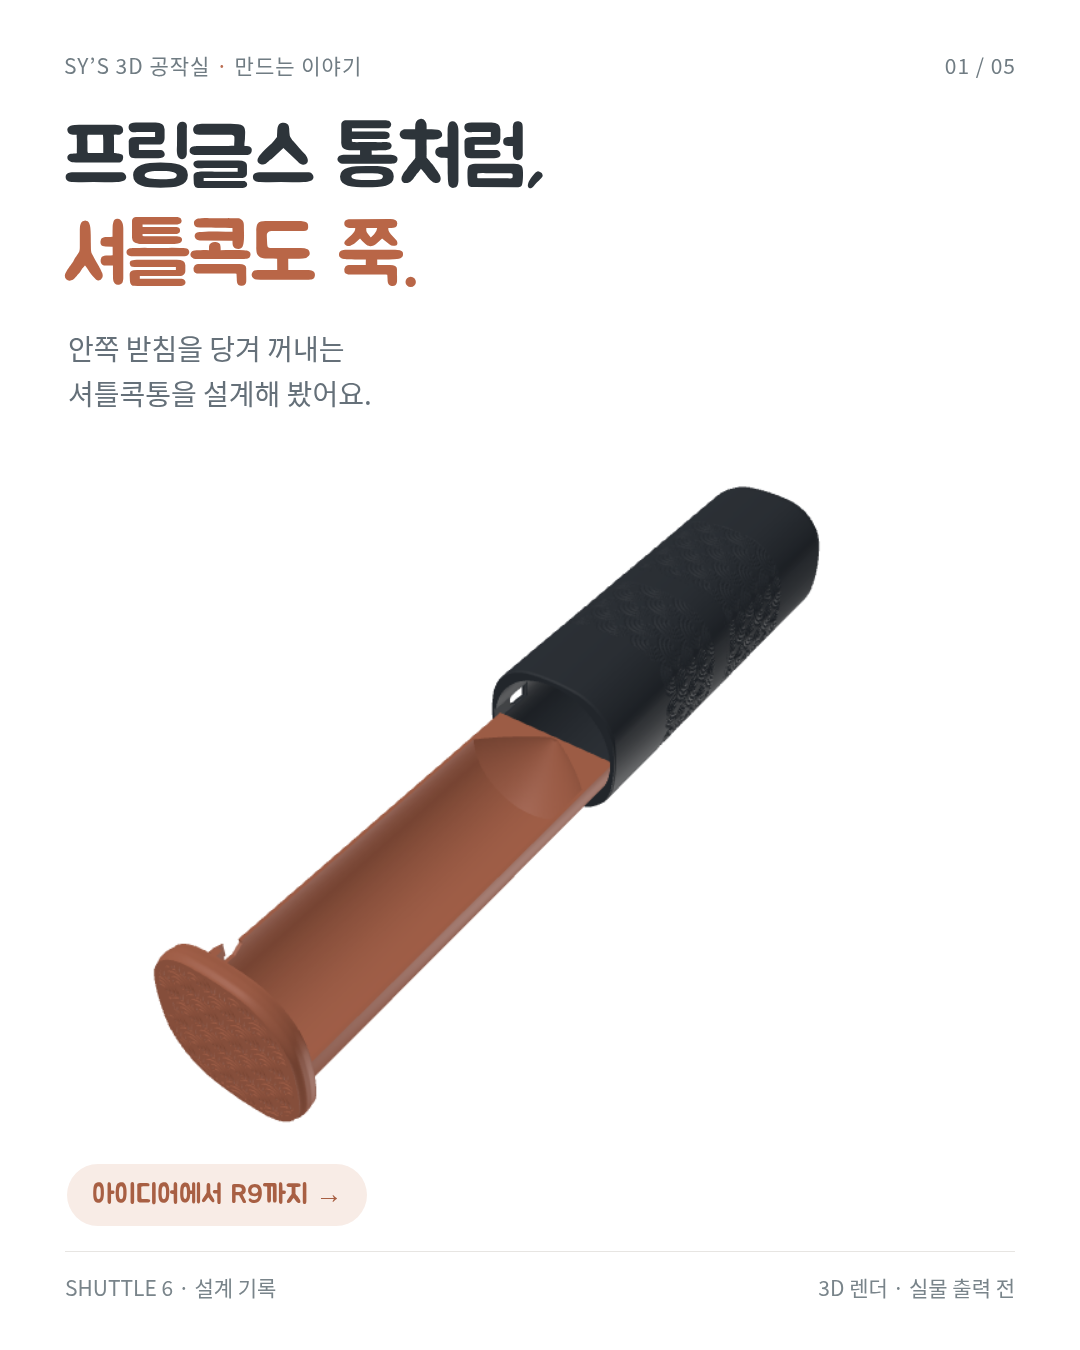
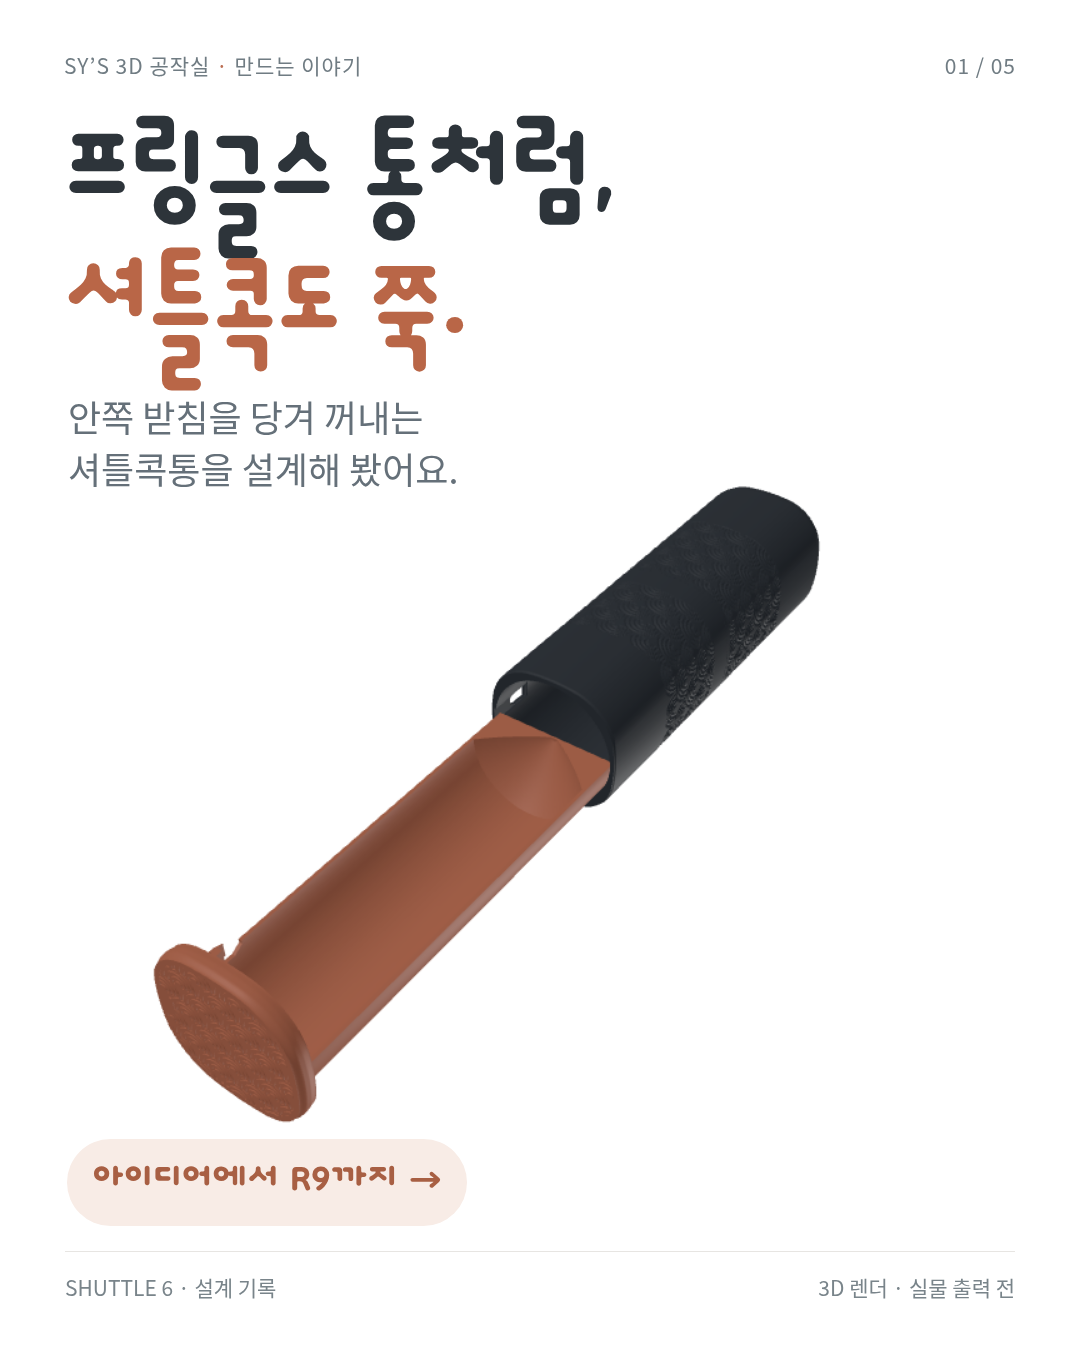
design: enlarge carousel type and use playful Dongle headings

Changed region(s): [[0.0611, 0.0622, 0.5806, 0.3733], [0.0611, 0.84, 0.4278, 0.9333]]

diff --git a/docs/social/previews/shuttle-r9/README.md b/docs/social/previews/shuttle-r9/README.md
@@ -1,4 +1,4 @@
-# 셔틀콕통 R9 인스타그램 미리보기 v2
+# 셔틀콕통 R9 인스타그램 미리보기 v3
 
 Instagram에는 게시하지 않은 검토용 초안입니다.
 
@@ -6,8 +6,8 @@ Instagram에는 게시하지 않은 검토용 초안입니다.
 
 - 모델 출처: main 8d42642의 작업완료/shuttle6-wave-R9/review_parts.pkl 및 figures/review_states_R9.json. 기하 형상을 생성형 이미지로 다시 그리지 않았습니다.
 - 표준 mm render의 presentation 옵션으로 흰 배경·격자/라벨 없는 캡처를 생성했습니다. 모델 형상은 변경하지 않았습니다.
-- 이미지는 HTML 문서 레이아웃에 실제 캡처를 삽입하고 Chromium으로 캡처했습니다. 제목은 Jua, 본문은 Noto Sans CJK KR입니다.
-- 글꼴 Jua: Google Fonts, SIL Open Font License. https://github.com/google/fonts/tree/main/ofl/jua
+- 이미지는 HTML 문서 레이아웃에 실제 캡처를 삽입하고 Chromium으로 캡처했습니다. 제목은 Dongle Bold, 본문은 Noto Sans CJK KR입니다.
+- 글꼴 Dongle: Google Fonts, SIL Open Font License. https://github.com/google/fonts/tree/main/ofl/dongle
 - 02의 프링글스 사진은 사용자 제공 스크린샷이며 원 작업자는 화면에 표시된 MARiiNSITO입니다. 초기 구상 이미지도 사용자 제공 자료입니다. 최종 결과·실물 출력 사진으로 취급하지 않습니다.
 - GIF는 닫힘/열림/분리/몸통 두 조각의 회전 미리보기입니다. 연속 인출 동작을 실물로 검증했다는 의미가 아닙니다. Instagram 게시 시 MP4 변환이 필요합니다.
 - 사실 근거: 프로젝트 README와 출력_접착_안내.md. 특정 브랜드의 셔틀콕 6개 수납, 출력 성공, 반복 내구는 검증 전입니다.
@@ -24,3 +24,5 @@ Instagram Login API로 @sy_3dprintgarage의 최근 게시물 6개와 각 첫 두
 - 그립 https://www.instagram.com/p/DbVYdgYkpNi/ : 제작 환경과 사용 동기를 보여주는 기록.
 
 개선 방향은 둥근 제목의 친근함을 유지하면서 두꺼운 외곽선·반복 그라데이션·복잡한 UI를 줄이고, 순백 배경·통일된 주황 포인트·짧은 설명·실제 모델 캡처를 사용하는 것입니다. 계정과 비교해 성과가 더 좋다고 검증한 것은 아닙니다.
+
+사용자 피드백 반영: 제목을 더 크게 하고 Dongle Bold로 변경. 표지 제목 154px, 나머지 제목 130~144px, 본문 32~36px로 확대하고 겹침을 확인했습니다.

diff --git a/docs/social/editorial-guide.md b/docs/social/editorial-guide.md
@@ -125,3 +125,5 @@
 계정의 실제 특징은 둥근 한글 제목, 핵심 단어의 색 강조, 사진 위의 짧은 자막, 결과물과 제작 과정의 연결이다. 그라데이션 띠와 두꺼운 외곽선이 반복된다. 새 시안은 친근한 둥근 제목을 유지하고 배경·강조색·여백을 통일하며 외곽선과 과한 설명을 줄인다. 제목 Jua는 OFL 배포본을 사용한다.
 
 제품 형상이 중요한 최종 시안은 기존 메시를 표준 `mm render`의 `presentation=True`로 캡처한 뒤 문서 레이아웃에 삽입한다. 생성형 이미지로 제품 구조·문양을 재해석하지 않는다. 렌더 원본은 보존하고 게시용 캡처에서 격자·상태줄만 제외한다. 원형을 바꾸지 않은 실제 캡처인지 확인하고 PC·휴대폰 크기에서 글자와 클리핑을 검토한다. 현재 시안과 캡션은 `previews/shuttle-r9/`에 있다. Instagram에는 게시하지 않았다.
+
+2026-10-21 사용자 추가 피드백: 글자를 더 크게, 폰트를 더 귀엽게. 셔틀콕 시안 제목은 Dongle Bold로 변경하고 본문도 확대한다. 큰 글씨에 맞춰 줄바꿈과 여백을 다시 배치한다.
